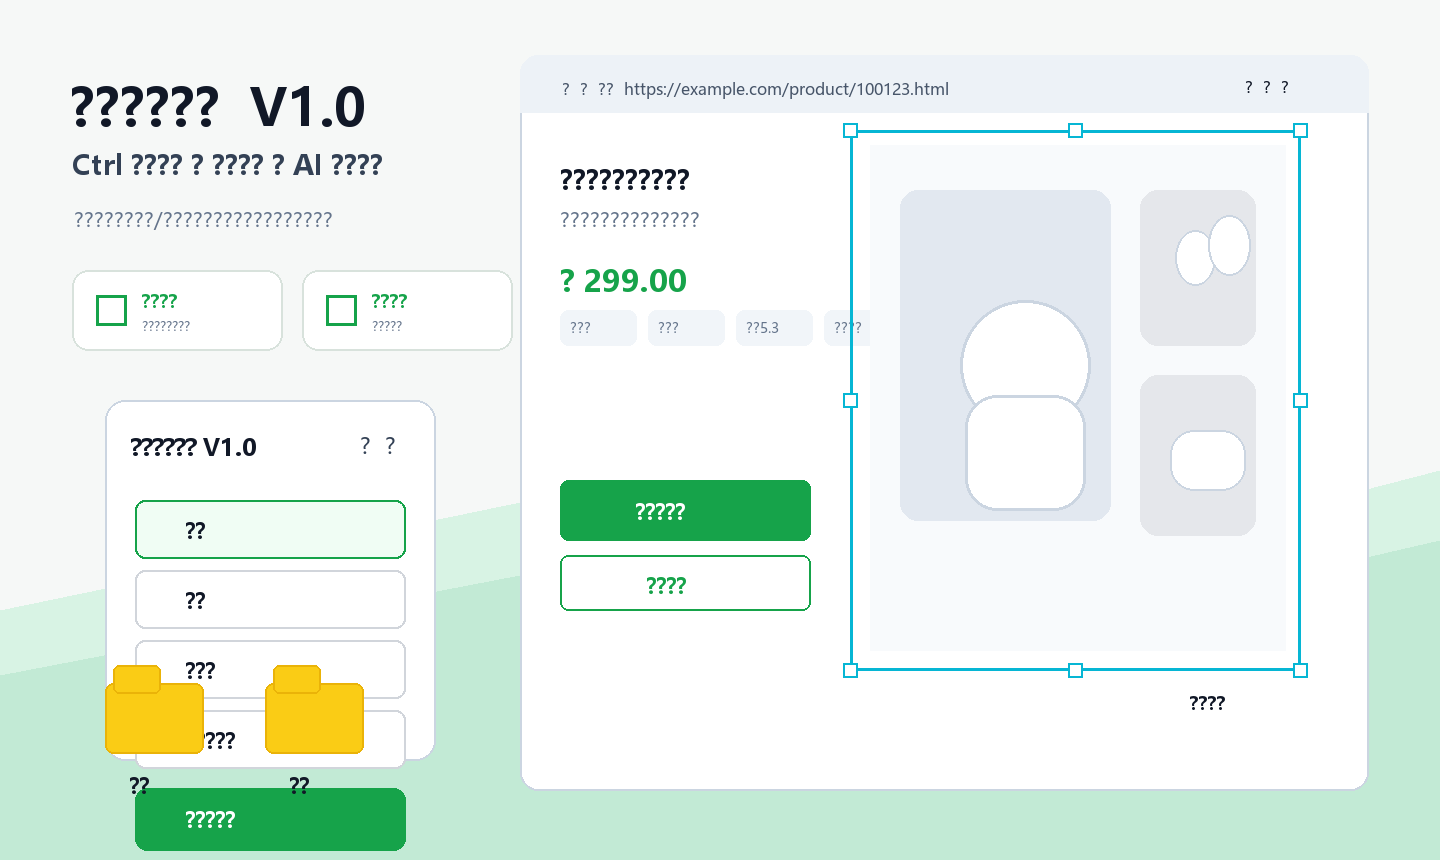
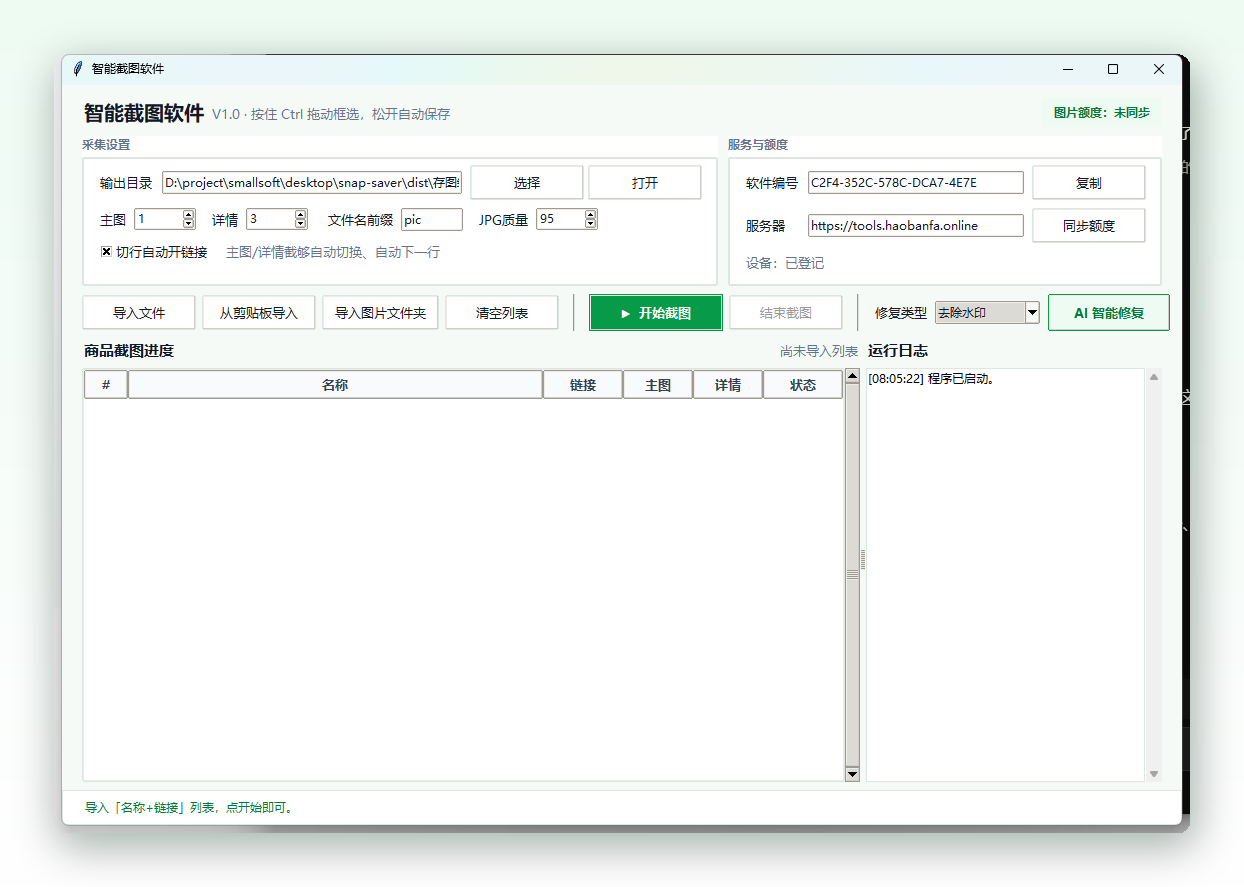
snap-saver 页面：修下载地址 URL 编码乱码 + 换真实软件截图配图
- 下载地址显示用 rawurldecode 还原中文，不再显示一长串 %E6%99%BA...（href 仍用编码地址，下载正常）
- snap-saver-hero.png 换成软件真实界面截图（加圆角/阴影/浅绿渐变），替换原先中文渲染成 ?????? 的示意图
- 修正 智能截图软件.spec 里写死的旧机器源路径为相对路径，并补 PIL.ImageTk 隐藏依赖

diff --git a/resources/views/pages/snap-saver.blade.php b/resources/views/pages/snap-saver.blade.php
@@ -31,7 +31,7 @@
             <a class="btn btn-outline" href="#snap-workflow">查看流程</a>
         </div>
         <div class="snap-download-line">
-            下载地址：<code>{{ $snapDownloadUrl }}</code>
+            下载地址：<code>{{ rawurldecode($snapDownloadUrl) }}</code>
         </div>
     </div>
     <div class="snap-hero-media">